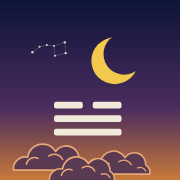
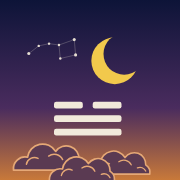
Enlarge the Big Dipper, new feature tagline, and tone-matched micro-copy

Changed region(s): [[0.1944, 0.1944, 0.4444, 0.3333], [0.1389, 0.2778, 0.1944, 0.3056]]

diff --git a/src/components/HomeScreen.tsx b/src/components/HomeScreen.tsx
@@ -174,10 +174,10 @@ export default function HomeScreen({ go }: { go: (t: Tab) => void }) {
         </div>
         <p className="text-sm text-card/70">주역 64괘와 384효</p>
         <p className="mt-2 text-2xl font-extrabold">주역으로 하늘의 뜻을 묻기</p>
-        <p className="mt-2 max-w-[62%] text-sm leading-relaxed text-card/80 md:max-w-[70%]">동전, 산통, 산가지 중 마음에 드는 방법으로 괘를 뽑고 오늘의 조언을 받아 보세요.</p>
+        <p className="mt-2 max-w-[62%] text-sm leading-relaxed text-card/80 md:max-w-[70%]">동전, 산통, 산가지 중 마음에 드는 방법으로 괘를 뽑고 하늘의 뜻을 들어 보세요.</p>
         <span className="mt-5 flex flex-wrap items-center gap-2">
           <span className="inline-flex items-center gap-1 rounded-full bg-vermilion px-4 py-2 text-sm font-bold">
-            시작하기 <ChevronRight size={16} />
+            하늘에 묻기 <ChevronRight size={16} />
           </span>
           <QuotaBadge />
         </span>
@@ -216,7 +216,7 @@ export default function HomeScreen({ go }: { go: (t: Tab) => void }) {
           ) : null}
         </div>
         {history.length === 0 ? (
-          <p className="mt-2 text-sm text-muted">아직 기록이 없어요. 점을 치면 이 기기에 알아서 저장해 둬요.</p>
+          <p className="mt-2 text-sm text-muted">아직 하늘에 물은 적이 없어요. 괘를 뽑으면 이 기기에 알아서 저장해 둬요.</p>
         ) : (
           <ul className="mt-3 divide-y divide-border">
             {shown.map((r) => (

diff --git a/src/components/AiReadingCard.tsx b/src/components/AiReadingCard.tsx
@@ -22,7 +22,7 @@ import { aiCardFileName, renderAiCard } from "@/lib/aiCard";
 import ShareCardModal from "./ShareCardModal";
 import { usePaymentsOn } from "@/lib/usePaymentsOn";
 
-const STEPS = ["괘사를 읽는 중", "효사를 읽는 중", "질문에 맞추는 중", "쉬운 말로 다듬는 중"];
+const STEPS = ["하늘의 뜻을 묻는 중", "괘사와 효사를 읽는 중", "질문에 맞추는 중", "쉬운 말로 다듬는 중"];
 // 받기 전에 어떤 내용을 받는지 미리 보여 준다
 const PREVIEW = ["한 줄 답", "어떻게 변하나요", "내가 선 자리(효사 원문)", "앞으로의 흐름", "할 일 3가지", "하면과 미루면", "육효로 본 때", "조심할 점"];
 
@@ -385,7 +385,7 @@ function FollowupBox({ reading, saved, onDone }: { reading: Reading; saved: AiFo
             className="min-w-0 flex-1 rounded-full bg-card px-4 py-2.5 text-sm outline-none placeholder:text-muted/60 focus:ring-2 focus:ring-vermilion/30"
           />
           <button onClick={ask} disabled={state === "busy" || q.trim().length < 2} className="shrink-0 rounded-full bg-foreground px-4 py-2.5 text-sm font-bold text-card disabled:opacity-40">
-            {state === "busy" ? "답하는 중…" : "묻기"}
+            {state === "busy" ? "주역이 답하는 중…" : "묻기"}
           </button>
         </div>
       ) : null}

diff --git a/src/components/QuotaGate.tsx b/src/components/QuotaGate.tsx
@@ -73,7 +73,7 @@ export default function QuotaGate({ onGoPremium }: { onGoPremium?: () => void })
           이메일로 로그인하고 하루 {FREE_PER_DAY}번 보기
         </button>
       ) : null}
-      <ShareForCoupon className="mt-3" label="친구에게 공유하고 한 번 더 뽑기" />
+      <ShareForCoupon className="mt-3" label="친구에게 알리고 한 번 더 묻기" />
       {payOn ? (
         <button onClick={() => { track("pro_click", { where: "quota" }); onGoPremium?.(); }} className="mt-3 w-full rounded-full bg-vermilion px-5 py-3 text-sm font-bold text-card transition hover:brightness-105">
           Pro로 횟수 제한 없이 보기

diff --git a/src/components/ShareCardModal.tsx b/src/components/ShareCardModal.tsx
@@ -189,7 +189,7 @@ export default function ShareCardModal({ job, onClose }: Props) {
               )}
               {!url ? (
                 <div className="absolute inset-0 flex items-center justify-center">
-                  {error ? <p className="p-6 text-center text-sm text-vermilion">{error}</p> : <p className="text-sm text-muted">이미지를 만드는 중…</p>}
+                  {error ? <p className="p-6 text-center text-sm text-vermilion">{error}</p> : <p className="text-sm text-muted">괘를 그림에 담는 중…</p>}
                 </div>
               ) : null}
             </div>

diff --git a/src/components/FocusGate.tsx b/src/components/FocusGate.tsx
@@ -85,7 +85,7 @@ export default function FocusGate({ action, topic, question, onReady }: Props) {
         }}
         className="mt-6 w-full rounded-full bg-vermilion py-4 text-lg font-bold text-card shadow-[0_8px_24px_rgba(216,69,43,0.3)] transition hover:brightness-105"
       >
-        {seconds < 3 ? "마음을 모으는 중" : "집중했어요, 시작하기"}
+        {seconds < 3 ? "마음을 모으는 중" : "집중했어요, 하늘에 묻기"}
       </button>
     </motion.div>
   );

diff --git a/public/sw.js b/public/sw.js
@@ -1,6 +1,6 @@
 // 푸시 알림을 받아 표시하고, 누르면 앱을 여는 서비스 워커
 self.addEventListener("push", (event) => {
-  let data = { title: "하늘주역", body: "오늘의 괘가 도착했어요.", url: "./", tag: "daily-hexagram" };
+  let data = { title: "하늘주역", body: "하늘이 오늘의 괘를 보냈어요.", url: "./", tag: "daily-hexagram" };
   try {
     if (event.data) data = { ...data, ...event.data.json() };
   } catch {

diff --git a/checklist.md b/checklist.md
@@ -477,3 +477,5 @@
 - [x] 앱 아이콘 v3 교체: public/icon-v3.svg, icon-v3-512/192.png, icon-v3-maskable-512.png(안전 영역 80%), apple-touch-icon-v3.png. 매니페스트, layout, sw.js 알림 아이콘 연결. 옛 v2와 v1 아이콘 삭제
 - [x] 스토어: store/store-icon-1024.png(Play 아이콘), store/feature-graphic-1024x500.png 다시 제작
 - [x] 스토어 스크린샷 5장 새 이름으로 다시 캡처(실제 사이트, 1080x1920, 다크). store/screens-sheet.png에 모아 봄
+- [x] 대표 이미지 문구 "가장 정확한 나만의 주역 운세풀이", 북두칠성 1.4배. 아이콘 PNG 다시 생성
+- [x] 톤앤매너 마이크로 카피: AI 로딩 첫 단계 "하늘의 뜻을 묻는 중", 이어 묻기 "주역이 답하는 중…", 홈 버튼 "하늘에 묻기", 빈 기록 "아직 하늘에 물은 적이 없어요", 집중 단계 "집중했어요, 하늘에 묻기", 공유 "친구에게 알리고 한 번 더 묻기", 이미지 "괘를 그림에 담는 중…", 알림 "하늘이 오늘의 괘를 보냈어요." 태극 마크는 유지
